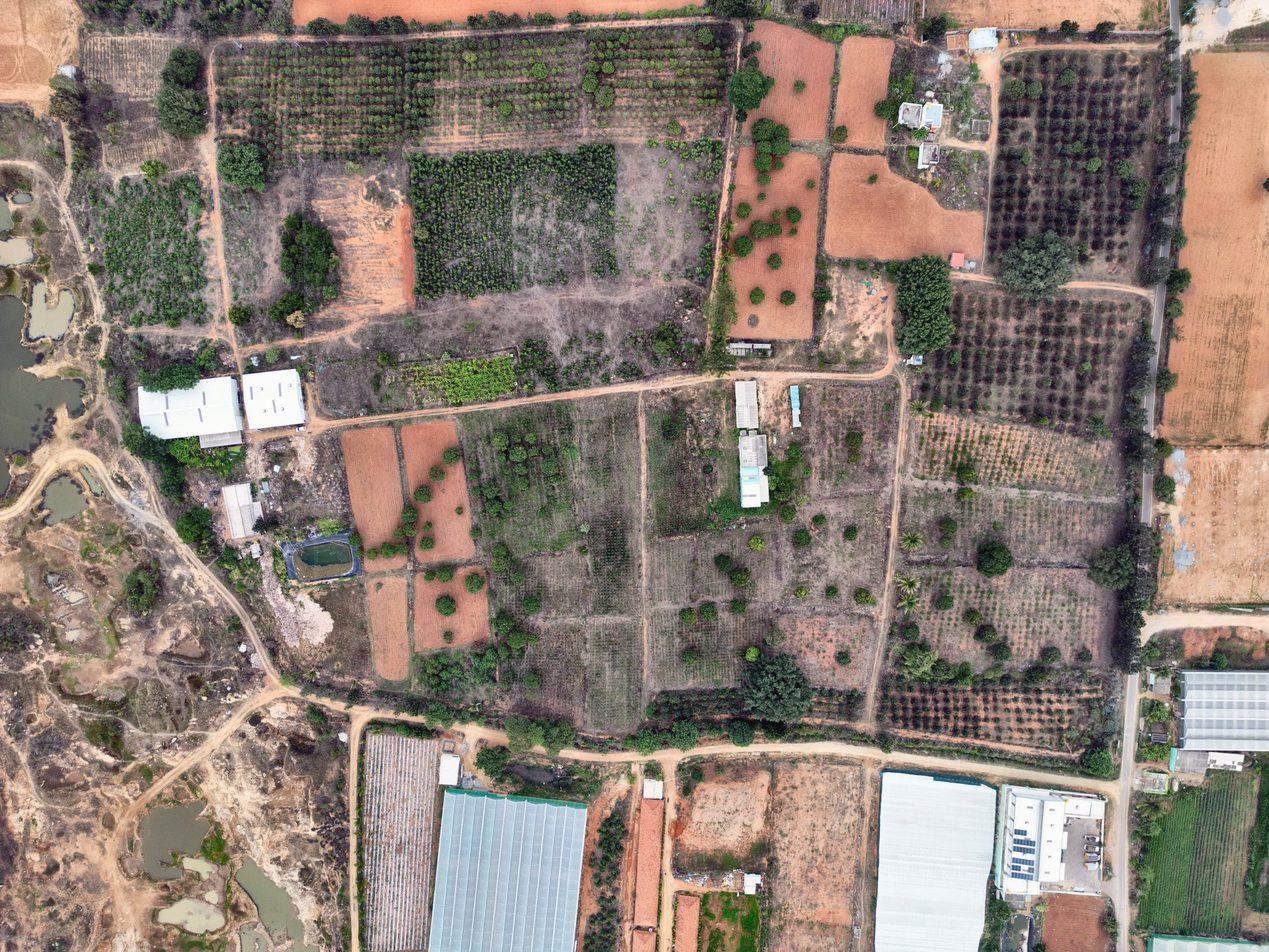
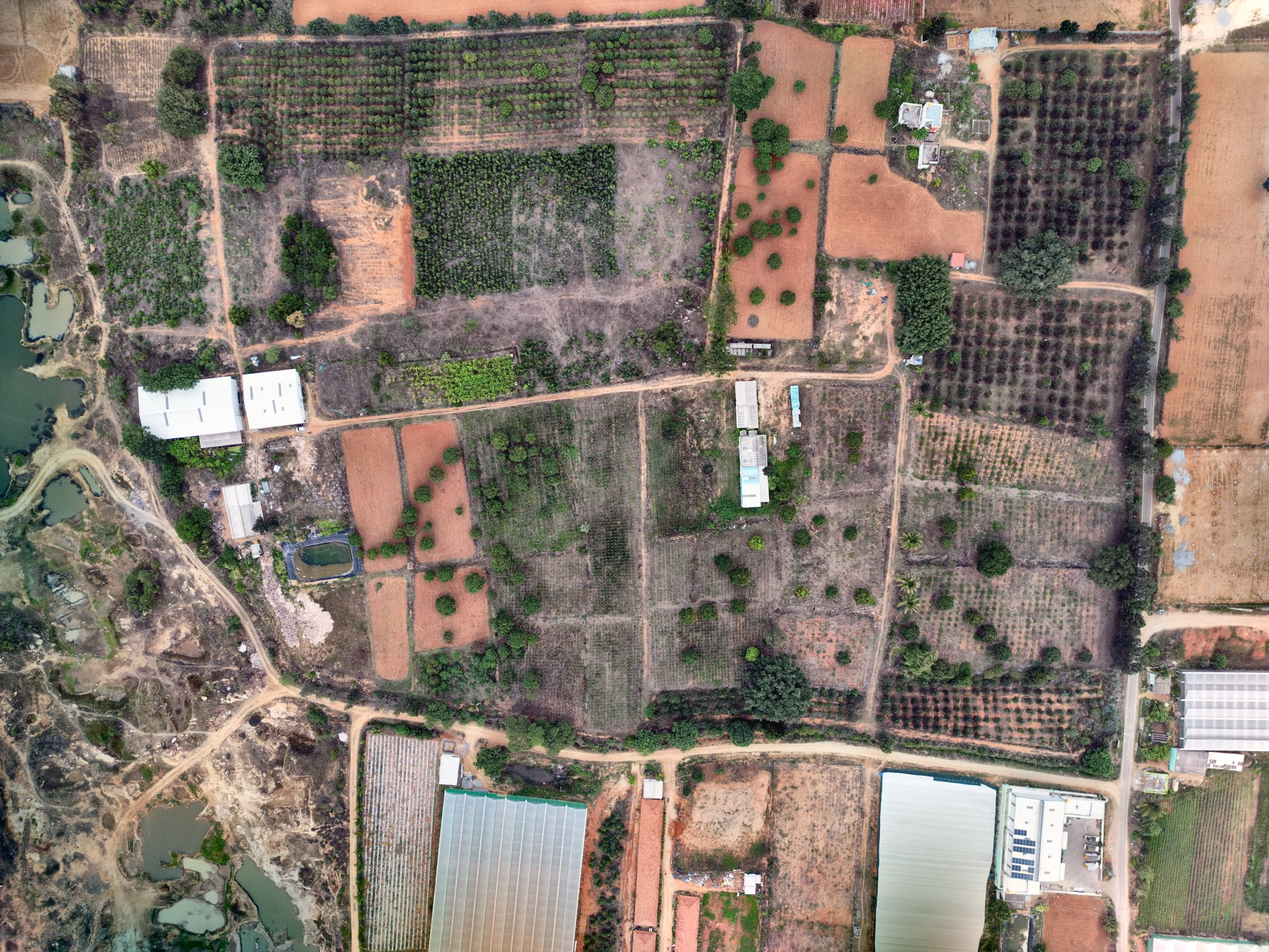
Site model: seamless edge between the drone photo and its surroundings
The satellite block takes the drone photo's overall tone (Lab mean and spread over
the shared ground, 80%), the drone photo's broad colour eases into the satellite's
within 70 m of its border, the alpha feather is about 45 m wide, and the ground no
longer casts a rim shadow. Both layers get the same light lift.

diff --git a/test-data/bagalur/site/web/index.html b/test-data/bagalur/site/web/index.html
@@ -95,7 +95,7 @@ import { OutputPass } from "./jsm/postprocessing/OutputPass.js";
 const q = new URLSearchParams(location.search), $ = id => document.getElementById(id);
 const touch = matchMedia("(pointer:coarse)").matches, small = Math.min(screen.width, screen.height) < 700 || Math.min(innerWidth, innerHeight) < 500;
 const portrait = () => innerHeight > innerWidth, lite = q.has("lite") ? q.get("lite") !== "0" : (touch || small);    // phones and tablets: lighter textures, no contact shading
-let dirty = true; const PAPER = 0xece9e3, EX = 10;                        // EX: relief scale the height map was tuned for
+let dirty = true; const PAPER = 0xece9e3, EX = 10, LIFT = 1.32;                        // EX: relief scale the height map was tuned for
 
 const renderer = new THREE.WebGLRenderer({ antialias: true, powerPreference: "high-performance" });
 renderer.setPixelRatio(Math.min(devicePixelRatio, 2)); renderer.setSize(innerWidth, innerHeight);
@@ -139,22 +139,22 @@ const groundY = (x, z) => gAt(...toPhoto(x, z)) * EX;
 function fadeTex(draw, w = 512, h = 384) { const c = document.createElement("canvas"); c.width = w; c.height = h; draw(c.getContext("2d"), w, h); const t = new THREE.CanvasTexture(c); return t; }
 const tag = lite ? "sd" : "hd";
 $("load-t").textContent = "Loading imagery";
-const [hImg, satImg, tex0] = await Promise.all([loadImg(`a/height_${tag}.png`), loadImg(`a/sat_${tag}.jpg`), texLoader.loadAsync(`tex_${tag}.jpg`)]);
+const [hImg, satImg, tex0] = await Promise.all([loadImg(`a/height_${tag}.png`), loadImg(`sat_${tag}.jpg`), texLoader.loadAsync(`tex_${tag}.jpg`)]);
 const maxAniso = Math.min(16, renderer.capabilities.getMaxAnisotropy()); let tex = tex0; tex.colorSpace = THREE.SRGBColorSpace; tex.anisotropy = maxAniso;
-{ // satellite: softened and slightly desaturated so the surveyed land is the subject
-  const c = document.createElement("canvas"); c.width = satImg.width; c.height = satImg.height; const x = c.getContext("2d"); x.filter = "saturate(.62) brightness(1.04) contrast(.94)"; x.drawImage(satImg, 0, 0);
+{ // satellite, already toned to the drone photo (build_site.py) so the two read as one landscape
+  const c = document.createElement("canvas"); c.width = satImg.width; c.height = satImg.height; const x = c.getContext("2d"); x.filter = "saturate(.9)"; x.drawImage(satImg, 0, 0);
   const st = new THREE.CanvasTexture(c); st.colorSpace = THREE.SRGBColorSpace; st.anisotropy = maxAniso;
   const alpha = fadeTex((g, w, h) => { const r = g.createRadialGradient(w / 2, h / 2, h * 0.30, w / 2, h / 2, h * 0.56); r.addColorStop(0, "#fff"); r.addColorStop(1, "#000"); g.fillStyle = r; g.save(); g.translate(w / 2, h / 2); g.scale(1.25, 1); g.translate(-w / 2, -h / 2); g.fillRect(-w, -h, w * 3, h * 3); g.restore(); });
-  const sat = new THREE.Mesh(new THREE.PlaneGeometry(SW * SPX, SH * SPX).rotateX(-Math.PI / 2), new THREE.MeshStandardMaterial({ map: st, alphaMap: alpha, transparent: true, roughness: 1, depthWrite: false }));
+  const sat = new THREE.Mesh(new THREE.PlaneGeometry(SW * SPX, SH * SPX).rotateX(-Math.PI / 2), new THREE.MeshStandardMaterial({ map: st, alphaMap: alpha, transparent: true, roughness: 1, depthWrite: false })); sat.material.color.setScalar(LIFT);
   sat.position.y = -0.5; sat.receiveShadow = true; sat.renderOrder = -2; scene.add(sat);
 }
 const c = document.createElement("canvas"); c.width = hw = hImg.width; c.height = hh = hImg.height; const cx2 = c.getContext("2d", { willReadFrequently: true }); cx2.drawImage(hImg, 0, 0);
 { const px = cx2.getImageData(0, 0, hw, hh).data, n = hw * hh; hts = new Float32Array(n); for (let i = 0; i < n; i++) hts[i] = (px[i * 4] * 256 + px[i * 4 + 1]) / 65535 * 1.3; }
 const geo = new THREE.PlaneGeometry(1, 1, hw - 1, hh - 1);
 { const gp = geo.attributes.position; for (let iy = 0; iy < hh; iy++) for (let ix = 0; ix < hw; ix++) { const [x, z] = toWorld(ix / (hw - 1) * DW, iy / (hh - 1) * DH); gp.setXYZ(iy * hw + ix, x, hts[iy * hw + ix] * EX, z); } geo.computeVertexNormals(); }
-const edge = fadeTex((g, w, h) => { g.fillStyle = "#000"; g.fillRect(0, 0, w, h); g.filter = "blur(7px)"; g.fillStyle = "#fff"; g.fillRect(12, 12, w - 24, h - 24); });
+const edge = fadeTex((g, w, h) => { g.fillStyle = "#000"; g.fillRect(0, 0, w, h); g.filter = "blur(14px)"; g.fillStyle = "#fff"; g.fillRect(26, 26, w - 52, h - 52); });   // about 45 m of soft edge
 const ground = new THREE.Mesh(geo, new THREE.MeshStandardMaterial({ map: tex, alphaMap: edge, transparent: true, roughness: 0.96, metalness: 0 }));
-ground.material.color.setScalar(1.4); ground.castShadow = ground.receiveShadow = true; ground.renderOrder = -1; scene.add(ground);   // a touch over 1: the photo already holds its own shadows, the scene adds more
+ground.material.color.setScalar(LIFT); ground.receiveShadow = true;   /* no castShadow: the raised border would draw a dark rim on the surroundings */ ground.renderOrder = -1; scene.add(ground);   // a touch over 1: the photo already holds its own shadows, the scene adds more
 
 // ---- structures: extruded from the AI roof outlines, the real roof from the photo on top, clean pale walls
 const bld = new THREE.Group(), roofM = new THREE.MeshStandardMaterial({ map: tex, roughness: 0.75, side: THREE.DoubleSide }), wallM = new THREE.MeshStandardMaterial({ color: 0xf1eee8, roughness: 0.9, side: THREE.DoubleSide });

diff --git a/test-data/bagalur/site/build_site.py b/test-data/bagalur/site/build_site.py
@@ -20,3 +20,24 @@ print(len(parcels), "parcels", sum(p["m2"] for p in parcels) / 1e4, "ha")
 im = cv2.imread("../cesium/work/DJI_0995_enh.png")                                  # enhance.py output (8064 x 6048)
 im = (np.clip((im.astype(np.float32) / 255) ** 0.8 * 0.94 + 0.05, 0, 1) * 255).astype(np.uint8)      # open the shadows a little: the 3D scene adds its own shading on top
 for tag, w, q in (("uhd", 6720, 86), ("hd", 4032, 88), ("sd", 2016, 86)): cv2.imwrite(f"web/tex_{tag}.jpg", cv2.resize(im, (w, w * 3 // 4), interpolation=cv2.INTER_AREA), [cv2.IMWRITE_JPEG_QUALITY, q])
+
+# ---------- seamless edge: the satellite is another day, season and camera, so the surveyed rectangle reads as a box unless the colours meet
+sat = cv2.imread("../ai3d/web/sat_hd.jpg"); k = sat.shape[1] / SW                       # satellite block, maybe stored smaller than its nominal grid
+w, h = 1008, 756; uu, vv = np.meshgrid(np.linspace(0, DW, w), np.linspace(0, DH, h)); fx, fy = uu / DW * (GX - 1), vv / DH * (GY - 1)
+dmap = cv2.remap(D.astype(np.float32), fx.astype(np.float32), fy.astype(np.float32), cv2.INTER_LINEAR)
+mx = ((A[0, 0] * uu + A[0, 1] * vv + A[0, 2] + dmap[..., 0]) * k).astype(np.float32); my = ((A[1, 0] * uu + A[1, 1] * vv + A[1, 2] + dmap[..., 1]) * k).astype(np.float32)
+sat_d = cv2.remap(sat, mx, my, cv2.INTER_LINEAR)                                       # the satellite seen through the drone photo's pixel grid
+dr = cv2.resize(im, (w, h), interpolation=cv2.INTER_AREA); lab = lambda x: cv2.cvtColor(x, cv2.COLOR_BGR2LAB).astype(np.float32)
+# 1. whole satellite block takes the drone photo's overall tone (Lab mean and spread over the shared ground)
+ls, ld = lab(sat_d).reshape(-1, 3), lab(dr).reshape(-1, 3); gain = ld.std(0) / ls.std(0); gain = np.clip(gain, 0.8, 1.22)
+def tone(x):                                             # 80% of the way: a full match over-cooks fields the drone never saw
+    m = cv2.cvtColor(np.clip((lab(x) - ls.mean(0)) * gain + ld.mean(0) - np.array([6, 0, 0]), 0, 255).astype(np.uint8), cv2.COLOR_LAB2BGR); return cv2.addWeighted(m, 0.8, x, 0.2, 0)
+sat_m = tone(sat); cv2.imwrite("web/sat_hd.jpg", sat_m, [cv2.IMWRITE_JPEG_QUALITY, 88]); cv2.imwrite("web/sat_sd.jpg", cv2.resize(sat_m, None, fx=0.5, fy=0.5, interpolation=cv2.INTER_AREA), [cv2.IMWRITE_JPEG_QUALITY, 86])
+# 2. near the border the drone photo's broad colour (not its detail) eases into the satellite's, so fields carry across the edge
+blur = lambda x, s: cv2.GaussianBlur(x.astype(np.float32), (0, 0), s); diff = blur(tone(sat_d), 22) - blur(dr, 22)
+edge = np.minimum.reduce([uu / DW, 1 - uu / DW, (vv / DH) * 0.75, (1 - vv / DH) * 0.75]) * DW * 0.1228                 # metres to the nearest photo edge
+wgt = np.clip(1 - edge / 70, 0, 1) ** 1.5; corr = diff * wgt[..., None]
+for tag, W_, q_ in (("uhd", 6720, 86), ("hd", 4032, 88), ("sd", 2016, 86)):
+    t = cv2.resize(im, (W_, W_ * 3 // 4), interpolation=cv2.INTER_AREA).astype(np.float32) + cv2.resize(corr, (W_, W_ * 3 // 4), interpolation=cv2.INTER_CUBIC)
+    cv2.imwrite(f"web/tex_{tag}.jpg", np.clip(t, 0, 255).astype(np.uint8), [cv2.IMWRITE_JPEG_QUALITY, q_])
+print("sat tone gain", gain.round(2), "edge blend up to 70 m")
